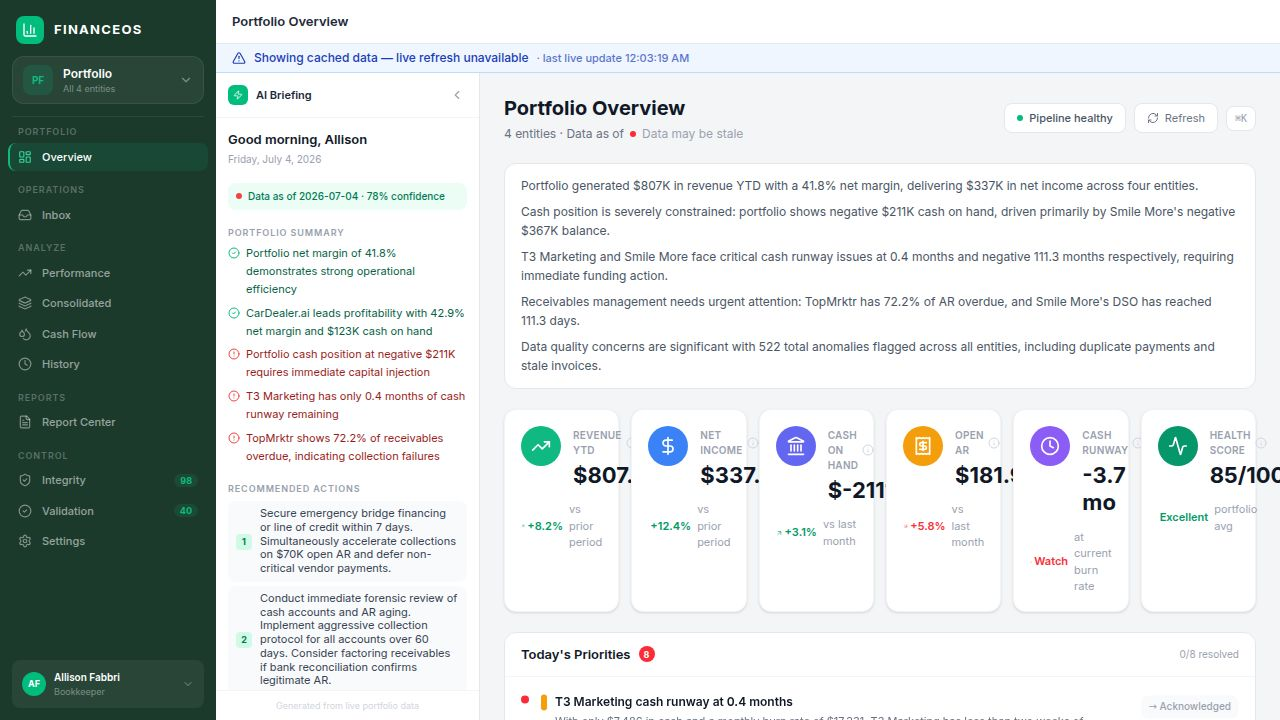
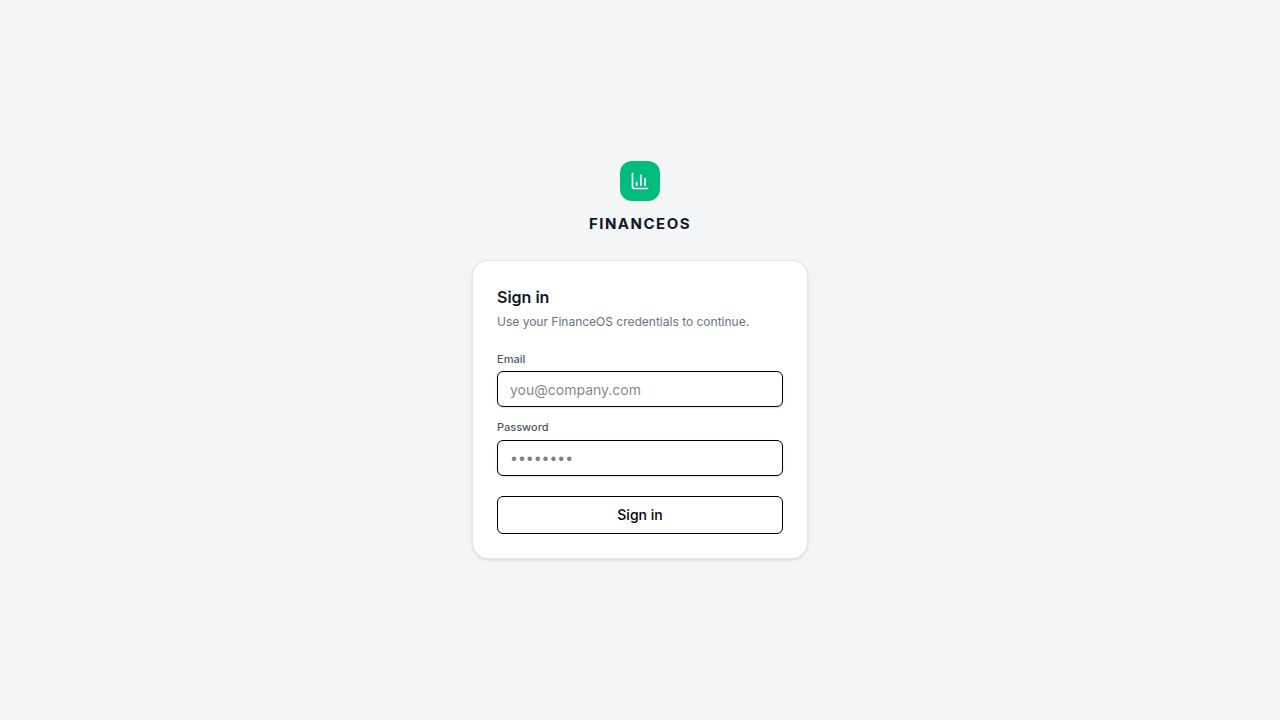
Task #11: Give users a way back to the launcher from the dashboard
- Made the FINANCEOS logo + wordmark in the dashboard sidebar a link to /home
  (artifacts/financeos/src/components/layout/Sidebar.tsx).
- The logo row is now a <Link href="/home"> with aria-label/title
  "Back to launcher" and a subtle hover opacity affordance; the mobile
  close button in the same row is unaffected.
- No other dashboard behavior changed.

Verification:
- TypeScript type-check of the financeos artifact passes.
- E2E test (Playwright subagent): logged in, opened the Reporting dashboard
  from /home, clicked the sidebar logo, and confirmed navigation back to
  /home with launcher content visible and no console errors.

No deviations from the task description.

Replit-Task-Id: 8d3885da-7f05-400b-9703-9a56e3373b01

diff --git a/artifacts/financeos/src/components/layout/Sidebar.tsx b/artifacts/financeos/src/components/layout/Sidebar.tsx
@@ -99,10 +99,17 @@ export function Sidebar({ onClose }: { onClose?: () => void }) {
     >
       {/* Logo row */}
       <div className="px-4 pt-4 pb-3 flex items-center gap-2.5">
-        <div className="w-7 h-7 rounded-lg bg-emerald-500 flex items-center justify-center flex-shrink-0">
-          <BarChart3 className="w-4 h-4 text-white" />
-        </div>
-        <span className="text-white font-bold text-[13px] tracking-widest flex-1">FINANCEOS</span>
+        <Link
+          href="/home"
+          aria-label="Back to launcher"
+          title="Back to launcher"
+          className="flex items-center gap-2.5 flex-1 min-w-0 rounded-lg transition-opacity hover:opacity-80"
+        >
+          <div className="w-7 h-7 rounded-lg bg-emerald-500 flex items-center justify-center flex-shrink-0">
+            <BarChart3 className="w-4 h-4 text-white" />
+          </div>
+          <span className="text-white font-bold text-[13px] tracking-widest flex-1 truncate">FINANCEOS</span>
+        </Link>
         {onClose && (
           <button
             onClick={onClose}